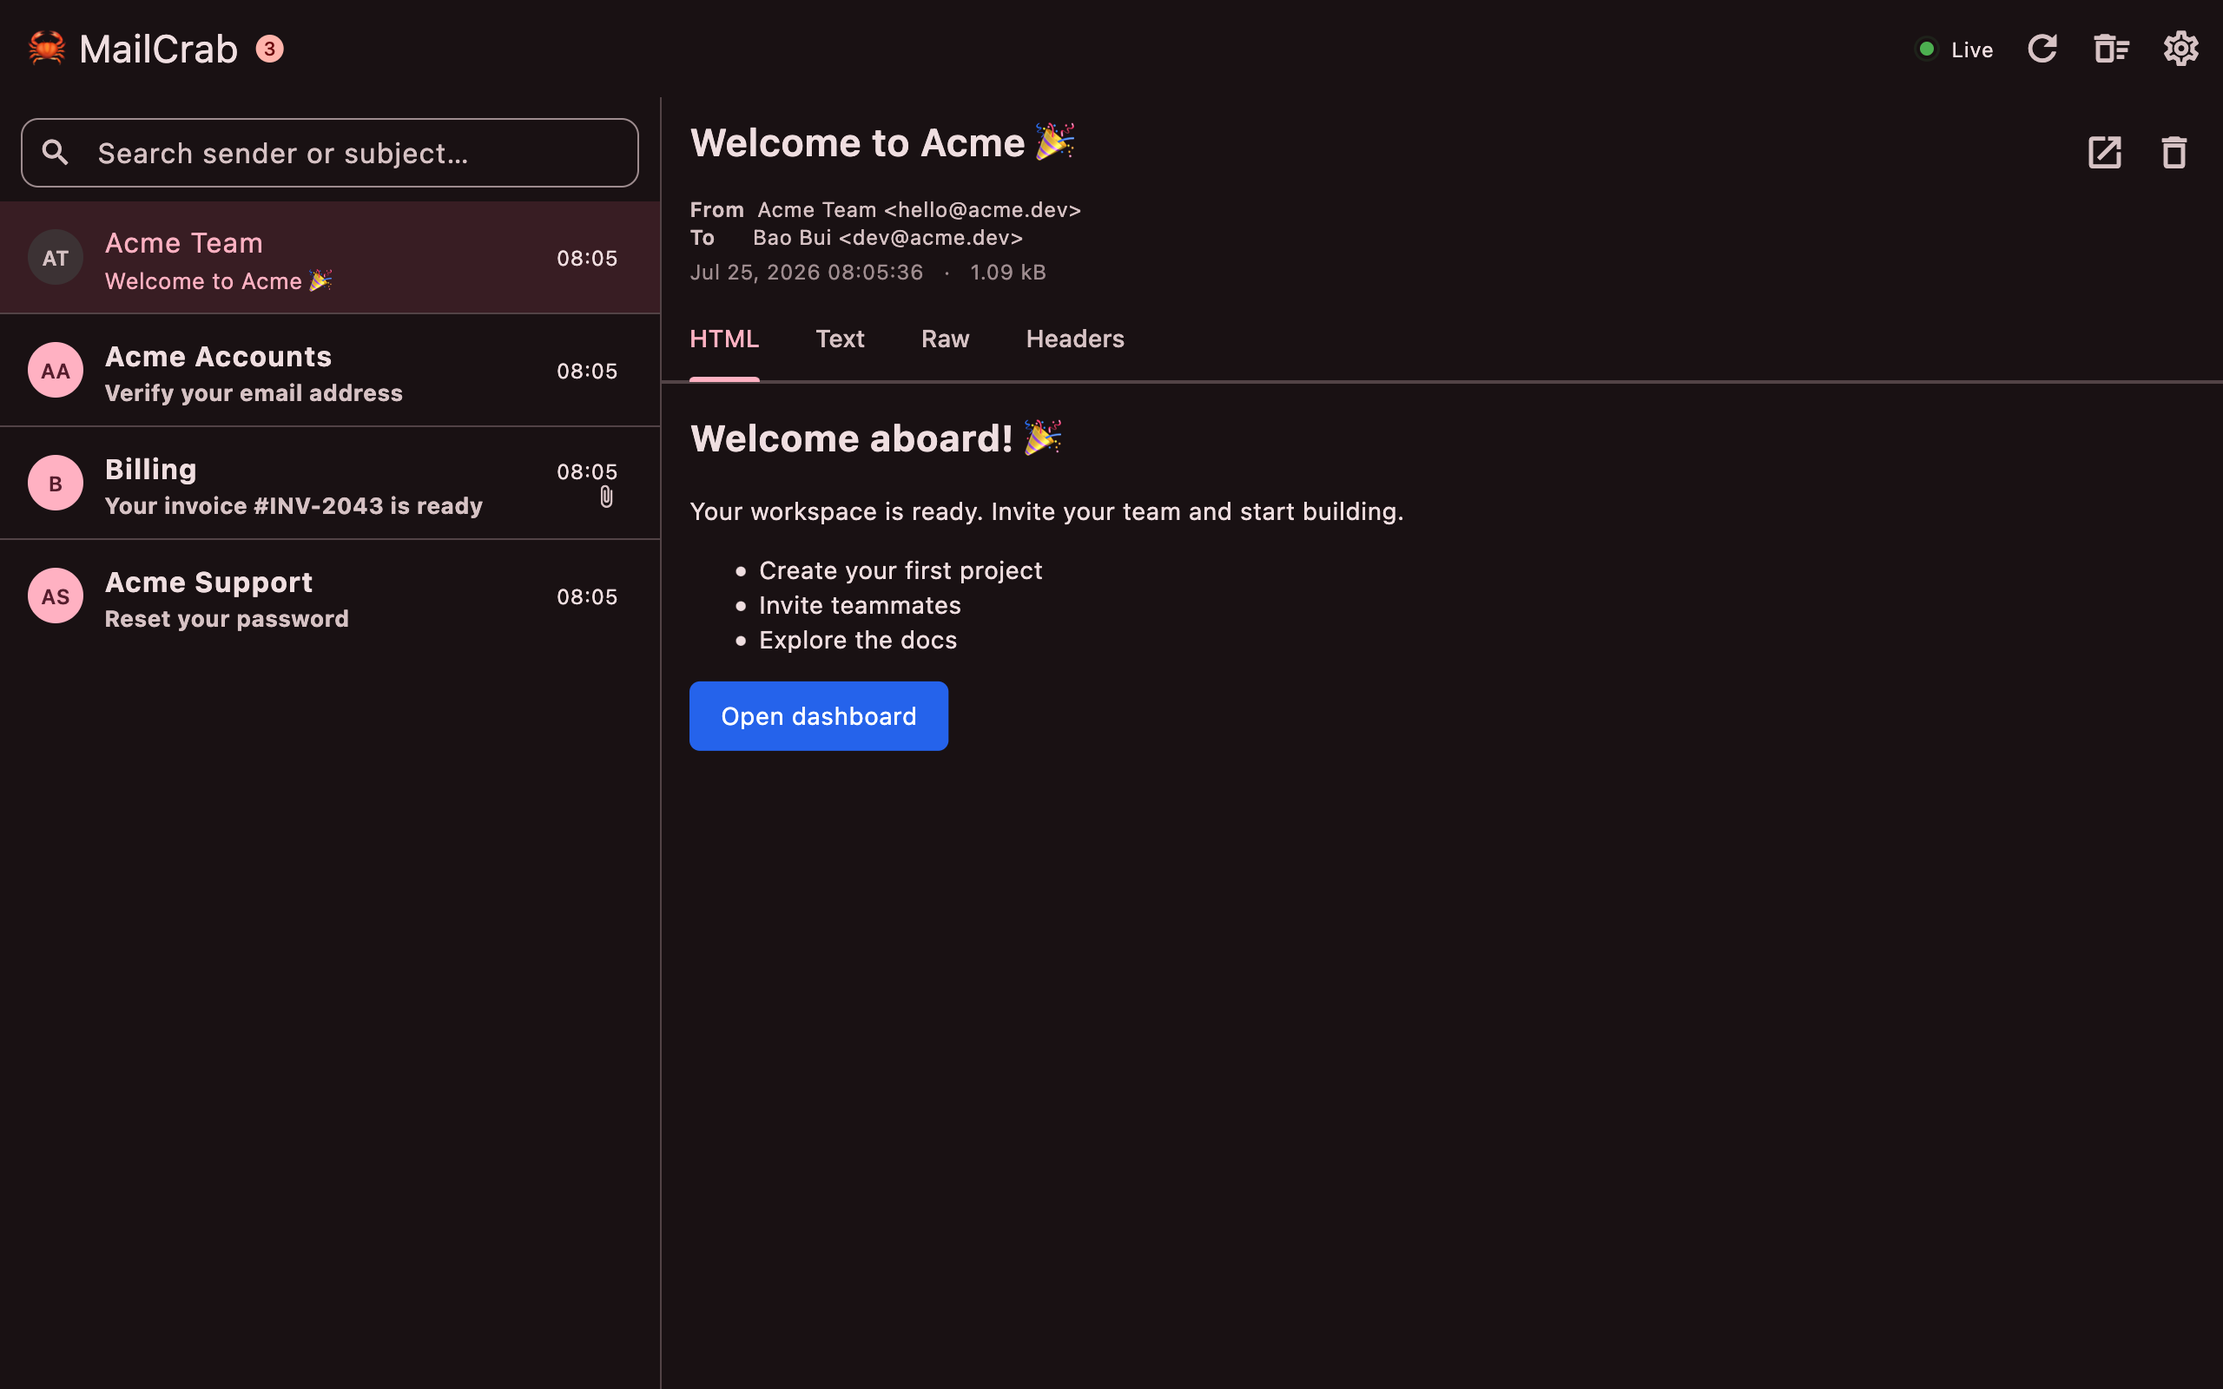
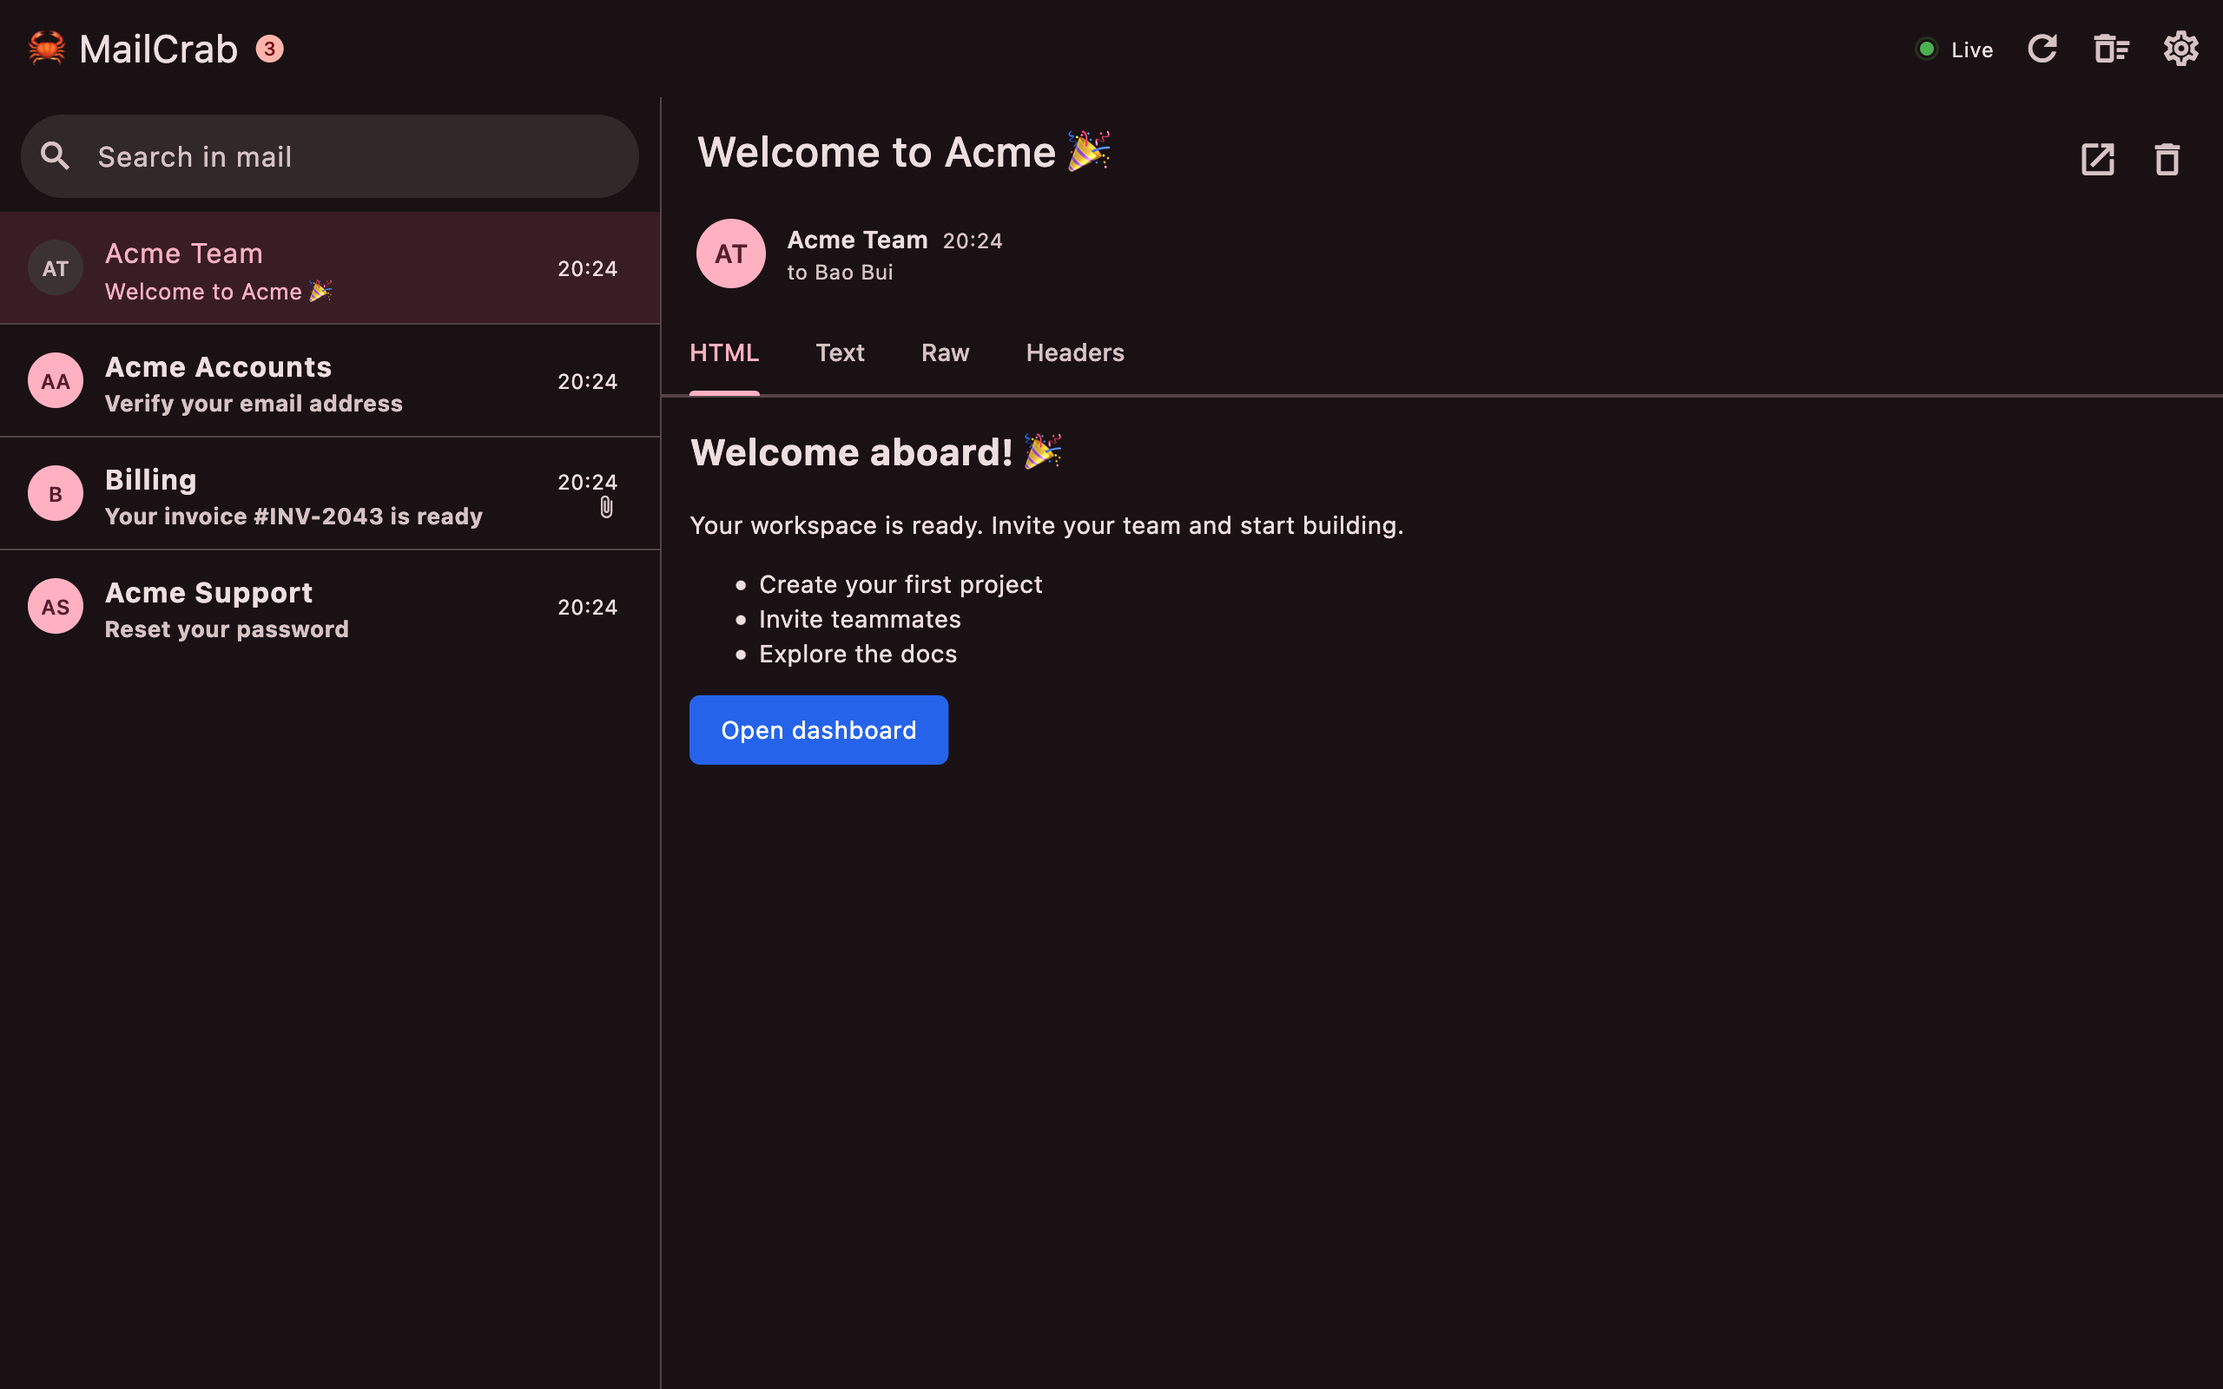
Gmail-style UI/UX + fixed back button placement
- Phone: opened message is its own screen with a standard app bar
  (back at the leading slot - fixes misaligned back button), actions
  on the right; Android back returns to the list
- Gmail-style message header: large subject, avatar + sender + time,
  "to ..." line with full details in a tooltip
- Gmail-style pill search bar ("Search in mail")
- Refreshed desktop + mobile README screenshots

diff --git a/lib/src/ui/message_detail.dart b/lib/src/ui/message_detail.dart
@@ -8,10 +8,11 @@ import '../models/models.dart';
 import 'formatting.dart';
 
 class MessageDetailPane extends StatelessWidget {
-  /// Shows a back button when the layout has no side-by-side list.
-  final bool showBack;
+  /// Whether the open-in-browser / delete actions render inside the pane
+  /// (desktop). On phones they live in [MobileMessageScreen]'s app bar.
+  final bool showActions;
 
-  const MessageDetailPane({super.key, required this.showBack});
+  const MessageDetailPane({super.key, this.showActions = true});
 
   @override
   Widget build(BuildContext context) {
@@ -29,7 +30,7 @@ class MessageDetailPane extends StatelessWidget {
           child = _MessageView(
             key: ValueKey(state.selectedMessage!.id),
             message: state.selectedMessage!,
-            showBack: showBack,
+            showActions: showActions,
           );
         }
         return AnimatedSwitcher(
@@ -37,6 +38,49 @@ class MessageDetailPane extends StatelessWidget {
           switchInCurve: Curves.easeOut,
           switchOutCurve: Curves.easeIn,
           child: child,
+        );
+      },
+    );
+  }
+}
+
+/// Gmail-style full-screen message view for phones: its own app bar with a
+/// standard back button and the message actions on the right.
+class MobileMessageScreen extends StatelessWidget {
+  const MobileMessageScreen({super.key});
+
+  @override
+  Widget build(BuildContext context) {
+    return BlocBuilder<MailboxBloc, MailboxState>(
+      builder: (context, state) {
+        final bloc = context.read<MailboxBloc>();
+        final message = state.selectedMessage;
+        return Scaffold(
+          appBar: AppBar(
+            leading: BackButton(
+              onPressed: () => bloc.add(const MailboxSelectionCleared()),
+            ),
+            actions: message == null
+                ? null
+                : [
+                    IconButton(
+                      tooltip: 'Open in browser',
+                      icon: const Icon(Icons.open_in_new),
+                      onPressed: () => launchUrl(
+                        bloc.api.bodyUri(message.id),
+                        mode: LaunchMode.externalApplication,
+                      ),
+                    ),
+                    IconButton(
+                      tooltip: 'Delete message',
+                      icon: const Icon(Icons.delete_outline),
+                      onPressed: () =>
+                          bloc.add(MailboxMessageDeleted(message.id)),
+                    ),
+                    const SizedBox(width: 4),
+                  ],
+          ),
+          body: const MessageDetailPane(showActions: false),
         );
       },
     );
@@ -69,10 +113,10 @@ class _NoSelection extends StatelessWidget {
 
 class _MessageView extends StatefulWidget {
   final MailMessage message;
-  final bool showBack;
+  final bool showActions;
 
   const _MessageView(
-      {super.key, required this.message, required this.showBack});
+      {super.key, required this.message, required this.showActions});
 
   @override
   State<_MessageView> createState() => _MessageViewState();
@@ -137,7 +181,7 @@ class _MessageViewState extends State<_MessageView> {
       child: Column(
         crossAxisAlignment: CrossAxisAlignment.start,
         children: [
-          _Header(message: message, showBack: widget.showBack),
+          _Header(message: message, showActions: widget.showActions),
           if (message.attachments.isNotEmpty) _AttachmentsRow(message: message),
           TabBar(
             isScrollable: true,
@@ -158,84 +202,125 @@ class _MessageViewState extends State<_MessageView> {
 
 class _Header extends StatelessWidget {
   final MailMessage message;
-  final bool showBack;
+  final bool showActions;
 
-  const _Header({required this.message, required this.showBack});
+  const _Header({required this.message, required this.showActions});
+
+  String _initials(String source) {
+    final parts = source
+        .replaceAll(RegExp(r'[<>@].*'), '')
+        .trim()
+        .split(RegExp(r'\s+'))
+        .where((p) => p.isNotEmpty)
+        .toList();
+    if (parts.isEmpty) return '?';
+    if (parts.length == 1) return parts.first.substring(0, 1).toUpperCase();
+    return (parts.first.substring(0, 1) + parts.last.substring(0, 1))
+        .toUpperCase();
+  }
 
   @override
   Widget build(BuildContext context) {
     final theme = Theme.of(context);
     final bloc = context.read<MailboxBloc>();
 
+    final senderName = message.from.short == '(unknown)'
+        ? message.envelopeFrom
+        : message.from.short;
+    final senderEmail = message.from.email ?? message.envelopeFrom;
     final recipients = message.to.isNotEmpty
-        ? message.to.map((a) => a.display).join(', ')
+        ? message.to.map((a) => a.short).join(', ')
         : message.envelopeRecipients.join(', ');
 
     return Padding(
-      padding: const EdgeInsets.fromLTRB(16, 12, 8, 4),
+      padding: const EdgeInsets.fromLTRB(20, 16, 12, 8),
       child: Column(
         crossAxisAlignment: CrossAxisAlignment.start,
         children: [
+          // Subject — big Gmail-style title (+ actions on desktop).
           Row(
             crossAxisAlignment: CrossAxisAlignment.start,
             children: [
-              if (showBack)
-                IconButton(
-                  tooltip: 'Back to list',
-                  icon: const Icon(Icons.arrow_back),
-                  onPressed: () =>
-                      bloc.add(const MailboxSelectionCleared()),
-                ),
               Expanded(
                 child: SelectableText(
                   message.displaySubject,
-                  style: theme.textTheme.titleLarge
-                      ?.copyWith(fontWeight: FontWeight.w600),
+                  style: theme.textTheme.headlineSmall
+                      ?.copyWith(fontWeight: FontWeight.w500, height: 1.25),
                 ),
               ),
-              IconButton(
-                tooltip: 'Open in browser',
-                icon: const Icon(Icons.open_in_new),
-                onPressed: () => launchUrl(
-                  bloc.api.bodyUri(message.id),
-                  mode: LaunchMode.externalApplication,
+              if (showActions) ...[
+                IconButton(
+                  tooltip: 'Open in browser',
+                  icon: const Icon(Icons.open_in_new),
+                  onPressed: () => launchUrl(
+                    bloc.api.bodyUri(message.id),
+                    mode: LaunchMode.externalApplication,
+                  ),
+                ),
+                IconButton(
+                  tooltip: 'Delete message',
+                  icon: const Icon(Icons.delete_outline),
+                  onPressed: () =>
+                      bloc.add(MailboxMessageDeleted(message.id)),
+                ),
+              ],
+            ],
+          ),
+          const SizedBox(height: 14),
+          // Sender row: avatar · name + "to …" · time (Gmail layout).
+          Row(
+            children: [
+              CircleAvatar(
+                radius: 20,
+                backgroundColor: theme.colorScheme.primary,
+                foregroundColor: theme.colorScheme.onPrimary,
+                child: Text(
+                  _initials(senderName),
+                  style: const TextStyle(
+                      fontSize: 15, fontWeight: FontWeight.w600),
                 ),
               ),
-              IconButton(
-                tooltip: 'Delete message',
-                icon: const Icon(Icons.delete_outline),
-                onPressed: () =>
-                    bloc.add(MailboxMessageDeleted(message.id)),
+              const SizedBox(width: 12),
+              Expanded(
+                child: Column(
+                  crossAxisAlignment: CrossAxisAlignment.start,
+                  children: [
+                    Row(
+                      children: [
+                        Flexible(
+                          child: Text(
+                            senderName,
+                            maxLines: 1,
+                            overflow: TextOverflow.ellipsis,
+                            style: theme.textTheme.bodyMedium
+                                ?.copyWith(fontWeight: FontWeight.w600),
+                          ),
+                        ),
+                        const SizedBox(width: 8),
+                        Text(
+                          formatListTime(message.dateTime),
+                          style: theme.textTheme.bodySmall?.copyWith(
+                              color: theme.colorScheme.onSurfaceVariant),
+                        ),
+                      ],
+                    ),
+                    Tooltip(
+                      message:
+                          'From $senderEmail\n${formatFullTime(message.dateTime)} · ${message.size}',
+                      child: Text(
+                        'to $recipients',
+                        maxLines: 1,
+                        overflow: TextOverflow.ellipsis,
+                        style: theme.textTheme.bodySmall?.copyWith(
+                            color: theme.colorScheme.onSurfaceVariant),
+                      ),
+                    ),
+                  ],
+                ),
               ),
             ],
           ),
-          const SizedBox(height: 4),
-          SelectableText.rich(
-            TextSpan(
-              style: theme.textTheme.bodySmall
-                  ?.copyWith(color: theme.colorScheme.onSurfaceVariant),
-              children: [
-                const TextSpan(
-                    text: 'From  ',
-                    style: TextStyle(fontWeight: FontWeight.w600)),
-                TextSpan(
-                    text: message.from.display == '(unknown)'
-                        ? message.envelopeFrom
-                        : message.from.display),
-                const TextSpan(
-                    text: '\nTo      ',
-                    style: TextStyle(fontWeight: FontWeight.w600)),
-                TextSpan(text: recipients),
-              ],
-            ),
-          ),
-          const SizedBox(height: 4),
-          Text(
-            '${formatFullTime(message.dateTime)}   ·   ${message.size}',
-            style: theme.textTheme.bodySmall
-                ?.copyWith(color: theme.colorScheme.outline),
-          ),
-          const SizedBox(height: 4),
+          const SizedBox(height: 6),
         ],
       ),
     );

diff --git a/lib/src/ui/message_list.dart b/lib/src/ui/message_list.dart
@@ -39,33 +39,35 @@ class _MessageListPaneState extends State<MessageListPane> {
         return Column(
           children: [
             Padding(
-              padding: const EdgeInsets.fromLTRB(12, 12, 12, 8),
-              child: TextField(
-                controller: _searchController,
-                onChanged: (value) => context
-                    .read<MailboxBloc>()
-                    .add(MailboxFilterChanged(value)),
-                decoration: InputDecoration(
-                  hintText: 'Search sender or subject…',
-                  prefixIcon: const Icon(Icons.search, size: 20),
-                  suffixIcon: state.filter.isEmpty
-                      ? null
-                      : IconButton(
-                          tooltip: 'Clear search',
-                          icon: const Icon(Icons.close, size: 18),
-                          onPressed: () {
-                            _searchController.clear();
-                            context
-                                .read<MailboxBloc>()
-                                .add(const MailboxFilterChanged(''));
-                          },
-                        ),
-                  isDense: true,
-                  border: OutlineInputBorder(
-                    borderRadius: BorderRadius.circular(10),
+              padding: const EdgeInsets.fromLTRB(12, 10, 12, 8),
+              // Gmail-style pill search bar.
+              child: Material(
+                color: Theme.of(context).colorScheme.surfaceContainerHigh,
+                borderRadius: BorderRadius.circular(28),
+                child: TextField(
+                  controller: _searchController,
+                  onChanged: (value) => context
+                      .read<MailboxBloc>()
+                      .add(MailboxFilterChanged(value)),
+                  decoration: InputDecoration(
+                    hintText: 'Search in mail',
+                    prefixIcon: const Icon(Icons.search, size: 22),
+                    suffixIcon: state.filter.isEmpty
+                        ? null
+                        : IconButton(
+                            tooltip: 'Clear search',
+                            icon: const Icon(Icons.close, size: 18),
+                            onPressed: () {
+                              _searchController.clear();
+                              context
+                                  .read<MailboxBloc>()
+                                  .add(const MailboxFilterChanged(''));
+                            },
+                          ),
+                    border: InputBorder.none,
+                    contentPadding: const EdgeInsets.symmetric(
+                        horizontal: 16, vertical: 14),
                   ),
-                  contentPadding:
-                      const EdgeInsets.symmetric(horizontal: 12, vertical: 10),
                 ),
               ),
             ),

diff --git a/lib/src/ui/home_page.dart b/lib/src/ui/home_page.dart
@@ -19,6 +19,18 @@ class HomePage extends StatelessWidget {
         final bloc = context.read<MailboxBloc>();
         final narrow = MediaQuery.sizeOf(context).width < _wideBreakpoint;
 
+        // Gmail-style on phones: an open message is its own screen with a
+        // standard app bar (back + actions). Android back clears selection.
+        if (narrow && state.selectedId != null) {
+          return PopScope(
+            canPop: false,
+            onPopInvokedWithResult: (didPop, _) {
+              if (!didPop) bloc.add(const MailboxSelectionCleared());
+            },
+            child: const MobileMessageScreen(),
+          );
+        }
+
         return Scaffold(
           appBar: AppBar(
             title: Row(
@@ -127,13 +139,11 @@ class HomePage extends StatelessWidget {
                         children: [
                           SizedBox(width: 380, child: MessageListPane()),
                           VerticalDivider(width: 1),
-                          Expanded(child: MessageDetailPane(showBack: false)),
+                          Expanded(child: MessageDetailPane()),
                         ],
                       );
                     }
-                    return state.selectedId == null
-                        ? const MessageListPane()
-                        : const MessageDetailPane(showBack: true);
+                    return const MessageListPane();
                   },
                 ),
               ),

diff --git a/integration_test/screenshots_test.dart b/integration_test/screenshots_test.dart
@@ -71,9 +71,9 @@ void main() {
     await binding.takeScreenshot('$device-detail-dark');
 
     if (!wide) {
-      final back = find.byTooltip('Back to list');
+      final back = find.byType(BackButton);
       if (back.evaluate().isNotEmpty) {
-        await tester.tap(back);
+        await tester.tap(back.first);
         await settle(tester);
       }
       await binding.takeScreenshot('$device-list-dark');
